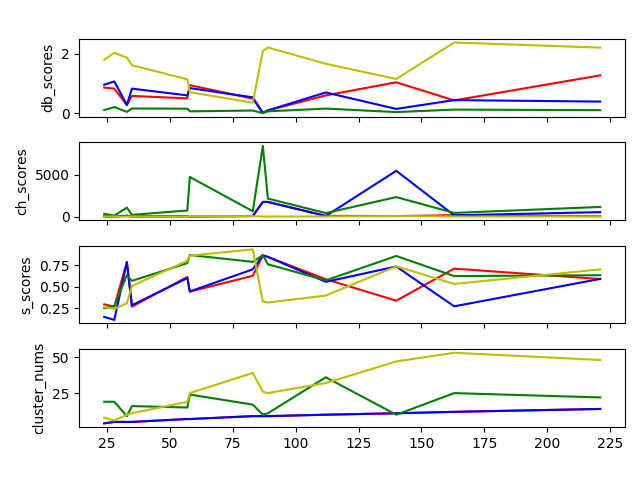
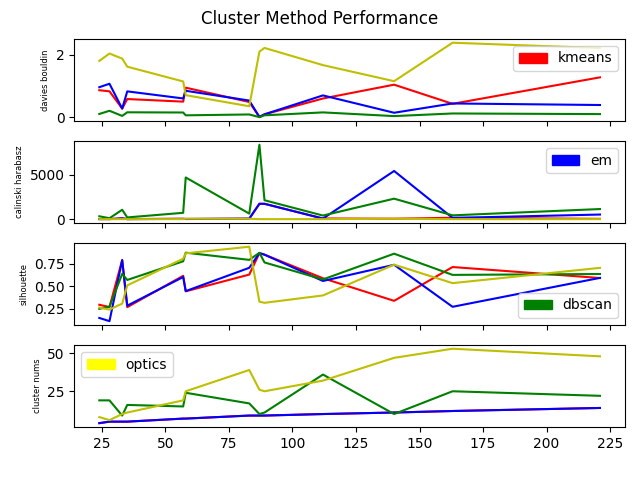
a

diff --git a/generator.py b/generator.py
@@ -1,4 +1,5 @@
 from matplotlib import pyplot as plt
+import matplotlib.patches as mpatches
 
 x_array = []
 
@@ -56,39 +57,48 @@ for line in file:
 
 file.close()
 
-
 f, axes = plt.subplots(4,1)
+
+plt.suptitle("Cluster Method Performance")
 
 ax = axes[0]
 ax.plot(x_array, db_scores_kmeans, 'r')
 ax.plot(x_array, db_scores_em, 'b')
 ax.plot(x_array, db_scores_dbscan, 'g')
 ax.plot(x_array, db_scores_optics, 'y')
-ax.set_ylabel("db_scores")
+ax.set_ylabel("davies bouldin", fontsize=6)
 ax.set_xticklabels([])
+red_patch = mpatches.Patch(color='red', label='kmeans')
+ax.legend(handles=[red_patch])
 
 ax = axes[1]
 ax.plot(x_array, ch_scores_kmeans, 'r')
 ax.plot(x_array, ch_scores_em, 'b')
 ax.plot(x_array, ch_scores_dbscan, 'g')
 ax.plot(x_array, ch_scores_optics, 'y')
-ax.set_ylabel("ch_scores")
+ax.set_ylabel("calinski harabasz", fontsize=6)
 ax.set_xticklabels([])
+blue_patch = mpatches.Patch(color='blue', label='em')
+ax.legend(handles=[blue_patch])
 
 ax = axes[2]
 ax.plot(x_array, s_scores_kmeans, 'r')
 ax.plot(x_array, s_scores_em, 'b')
 ax.plot(x_array, s_scores_dbscan, 'g')
 ax.plot(x_array, s_scores_optics, 'y')
-ax.set_ylabel("s_scores")
+ax.set_ylabel("silhouette", fontsize=6)
 ax.set_xticklabels([])
+green_patch = mpatches.Patch(color='green', label='dbscan')
+ax.legend(handles=[green_patch])
 
 ax = axes[3]
 ax.plot(x_array, cluster_nums_kmeans, 'r')
 ax.plot(x_array, cluster_nums_em, 'b')
 ax.plot(x_array, cluster_nums_dbscan, 'g')
 ax.plot(x_array, cluster_nums_optics, 'y')
-ax.set_ylabel("cluster_nums")
+ax.set_ylabel("cluster nums", fontsize=6)
+yellow_patch = mpatches.Patch(color='yellow', label='optics')
+ax.legend(handles=[yellow_patch])
 
 f.tight_layout(rect=[0, 0.03, 1, 0.95])
 plt.savefig('compare.png')
